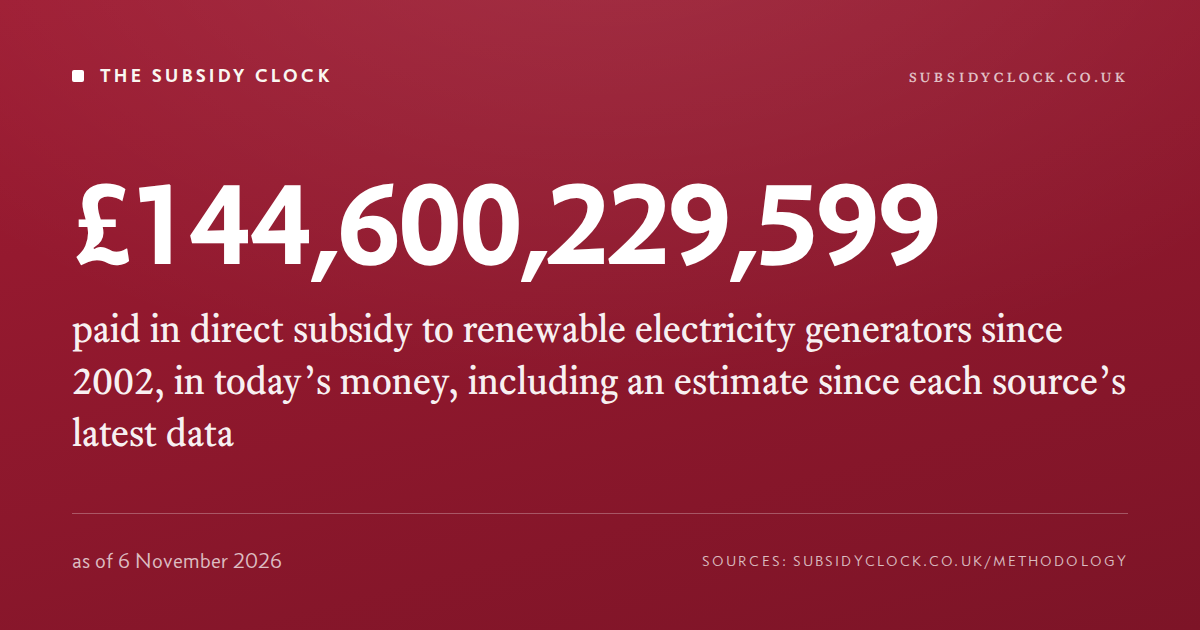
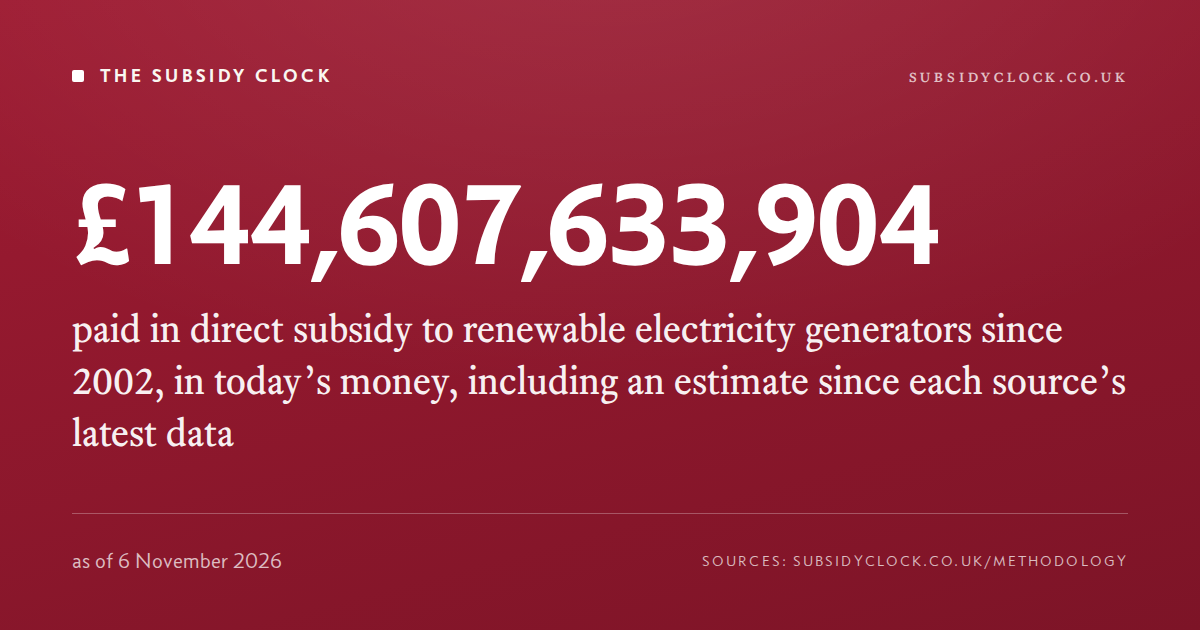
data: scheduled update 2026-11-06

Changed region(s): [[0.37, 0.2714, 0.8017, 0.4222]]

diff --git a/site/s/total.html b/site/s/total.html
@@ -3,14 +3,14 @@
 <head>
 <meta charset="utf-8">
 <meta name="robots" content="noindex">
-<title>£144,600,229,599 paid in direct subsidy to renewable electricity generators since 2002, in today’s money, including an estimate since each source’s latest data — The Subsidy Clock</title>
+<title>£144,607,633,904 paid in direct subsidy to renewable electricity generators since 2002, in today’s money, including an estimate since each source’s latest data — The Subsidy Clock</title>
 <meta name="description" content="As of 6 November 2026. Every figure links to its source.">
-<meta property="og:title" content="£144,600,229,599 paid in direct subsidy to renewable electricity generators since 2002, in today’s money, including an estimate since each source’s latest data">
+<meta property="og:title" content="£144,607,633,904 paid in direct subsidy to renewable electricity generators since 2002, in today’s money, including an estimate since each source’s latest data">
 <meta property="og:description" content="As of 6 November 2026. Every figure links to its source.">
 <meta property="og:type" content="website">
 <meta property="og:site_name" content="The Subsidy Clock">
 <meta property="og:url" content="https://subsidyclock.co.uk/s/total">
-<meta property="og:image" content="https://subsidyclock.co.uk/share/total.png?v=e625d3802a">
+<meta property="og:image" content="https://subsidyclock.co.uk/share/total.png?v=707460d8cc">
 <meta property="og:image:width" content="1200">
 <meta property="og:image:height" content="630">
 <meta name="twitter:card" content="summary_large_image">
@@ -18,7 +18,7 @@
 <meta http-equiv="refresh" content="0;url=https://subsidyclock.co.uk/">
 </head>
 <body>
-<p>£144,600,229,599 paid in direct subsidy to renewable electricity generators since 2002, in today’s money, including an estimate since each source’s latest data (as of 6 November 2026) — <a href="https://subsidyclock.co.uk/">The Subsidy Clock</a>.</p>
+<p>£144,607,633,904 paid in direct subsidy to renewable electricity generators since 2002, in today’s money, including an estimate since each source’s latest data (as of 6 November 2026) — <a href="https://subsidyclock.co.uk/">The Subsidy Clock</a>.</p>
 <script>location.replace("https://subsidyclock.co.uk/");</script>
 </body>
 </html>

diff --git a/site/s/headline.html b/site/s/headline.html
@@ -3,14 +3,14 @@
 <head>
 <meta charset="utf-8">
 <meta name="robots" content="noindex">
-<title>£290,018,371,871 the bill for UK renewables since 2002, including estimated indirect costs and an estimate since each source’s latest data, in today’s money — The Subsidy Clock</title>
+<title>£290,032,820,664 the bill for UK renewables since 2002, including estimated indirect costs and an estimate since each source’s latest data, in today’s money — The Subsidy Clock</title>
 <meta name="description" content="As of 6 November 2026. Every figure links to its source.">
-<meta property="og:title" content="£290,018,371,871 the bill for UK renewables since 2002, including estimated indirect costs and an estimate since each source’s latest data, in today’s money">
+<meta property="og:title" content="£290,032,820,664 the bill for UK renewables since 2002, including estimated indirect costs and an estimate since each source’s latest data, in today’s money">
 <meta property="og:description" content="As of 6 November 2026. Every figure links to its source.">
 <meta property="og:type" content="website">
 <meta property="og:site_name" content="The Subsidy Clock">
 <meta property="og:url" content="https://subsidyclock.co.uk/s/headline">
-<meta property="og:image" content="https://subsidyclock.co.uk/share/headline.png?v=bb90922549">
+<meta property="og:image" content="https://subsidyclock.co.uk/share/headline.png?v=91d093d3d1">
 <meta property="og:image:width" content="1200">
 <meta property="og:image:height" content="630">
 <meta name="twitter:card" content="summary_large_image">
@@ -18,7 +18,7 @@
 <meta http-equiv="refresh" content="0;url=https://subsidyclock.co.uk/">
 </head>
 <body>
-<p>£290,018,371,871 the bill for UK renewables since 2002, including estimated indirect costs and an estimate since each source’s latest data, in today’s money (as of 6 November 2026) — <a href="https://subsidyclock.co.uk/">The Subsidy Clock</a>.</p>
+<p>£290,032,820,664 the bill for UK renewables since 2002, including estimated indirect costs and an estimate since each source’s latest data, in today’s money (as of 6 November 2026) — <a href="https://subsidyclock.co.uk/">The Subsidy Clock</a>.</p>
 <script>location.replace("https://subsidyclock.co.uk/");</script>
 </body>
 </html>

diff --git a/site/embed/widget.html b/site/embed/widget.html
@@ -36,7 +36,7 @@
 </style>
 </head>
 <body>
-  <div class="fig" id="fig">£290,018,371,871</div>
+  <div class="fig" id="fig">£290,032,820,664</div>
   <div class="meta">
     <div class="what"><span id="what">paid to UK renewable generators plus estimated indirect system costs since 2002</span> · as of <span id="asof">6 November 2026</span></div>
     <div class="attr"><a href="https://subsidyclock.co.uk" target="_blank" rel="noopener">The Subsidy Clock — subsidyclock.co.uk</a></div>
@@ -45,7 +45,7 @@
 (function () {
   'use strict';
   // stamped at build time; the fetch below refreshes them if this file is cached
-  var stamped = { "cum": 290018371871.5217, "rate": 697.5718826365851, "generated": "2026-11-06T07:24:07.251705+00:00" };
+  var stamped = { "cum": 290032820664.4608, "rate": 697.5718826365851, "generated": "2026-11-06T13:09:20.232401+00:00" };
 
   var q = new URLSearchParams(location.search);
   var size = q.get('size');

diff --git a/site/papers/scotland-2026/index.html b/site/papers/scotland-2026/index.html
@@ -10,7 +10,7 @@
 <meta property="og:type" content="article">
 <meta property="og:site_name" content="The Subsidy Clock">
 <meta property="og:url" content="https://subsidyclock.co.uk/papers/scotland-2026">
-<meta property="og:image" content="https://subsidyclock.co.uk/share/headline.png?v=bb90922549">
+<meta property="og:image" content="https://subsidyclock.co.uk/share/headline.png?v=91d093d3d1">
 <meta property="og:image:width" content="1200">
 <meta property="og:image:height" content="630">
 <meta name="twitter:card" content="summary_large_image">

diff --git a/site/index.html b/site/index.html
@@ -11,7 +11,7 @@
 <meta property="og:type" content="website">
 <meta property="og:site_name" content="The Subsidy Clock">
 <meta property="og:url" content="https://subsidyclock.co.uk/">
-<meta property="og:image" content="https://subsidyclock.co.uk/share/headline.png?v=bb90922549">
+<meta property="og:image" content="https://subsidyclock.co.uk/share/headline.png?v=91d093d3d1">
 <meta property="og:image:width" content="1200">
 <meta property="og:image:height" content="630">
 <meta name="twitter:card" content="summary_large_image">
